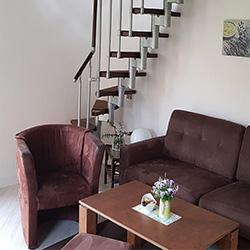
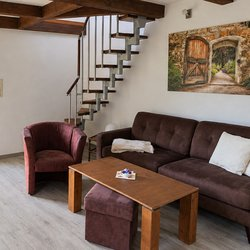
Galerie: neues Wohnzimmerfoto

diff --git a/index.html b/index.html
@@ -233,7 +233,7 @@
           <div><strong>Internet und draußen entspannen</strong><span>WLAN und LAN, Terrasse und kostenlose Fahrräder.</span></div>
         </div>
         <div class="gallery" aria-label="Bildergalerie Gästehaus Perschall">
-          <button type="button" data-full="img/works/1.jpg"><img src="img/works/thumbs/1.jpg" width="250" height="250" alt="Wohnzimmer im Gästehaus Perschall" loading="lazy"></button>
+          <button type="button" data-full="img/works/1.jpg"><img src="img/works/thumbs/1.jpg" width="250" height="250" alt="Wohnzimmer mit Sofa, Sessel, Wendeltreppe und Tür zur Terrasse" loading="lazy"></button>
           <button type="button" data-full="img/works/2.jpg"><img src="img/works/thumbs/2.jpg" width="250" height="250" alt="Sitzecke im Wohnzimmer" loading="lazy"></button>
           <button type="button" data-full="img/works/3.jpg"><img src="img/works/thumbs/3.jpg" width="250" height="250" alt="Schlafzimmer im Obergeschoss mit Doppelbett, Einzelbett und Dachfenstern" loading="lazy"></button>
           <button type="button" data-full="img/works/4.jpg"><img src="img/works/thumbs/4.jpg" width="250" height="250" alt="Küche im Gästehaus Perschall" loading="lazy"></button>
